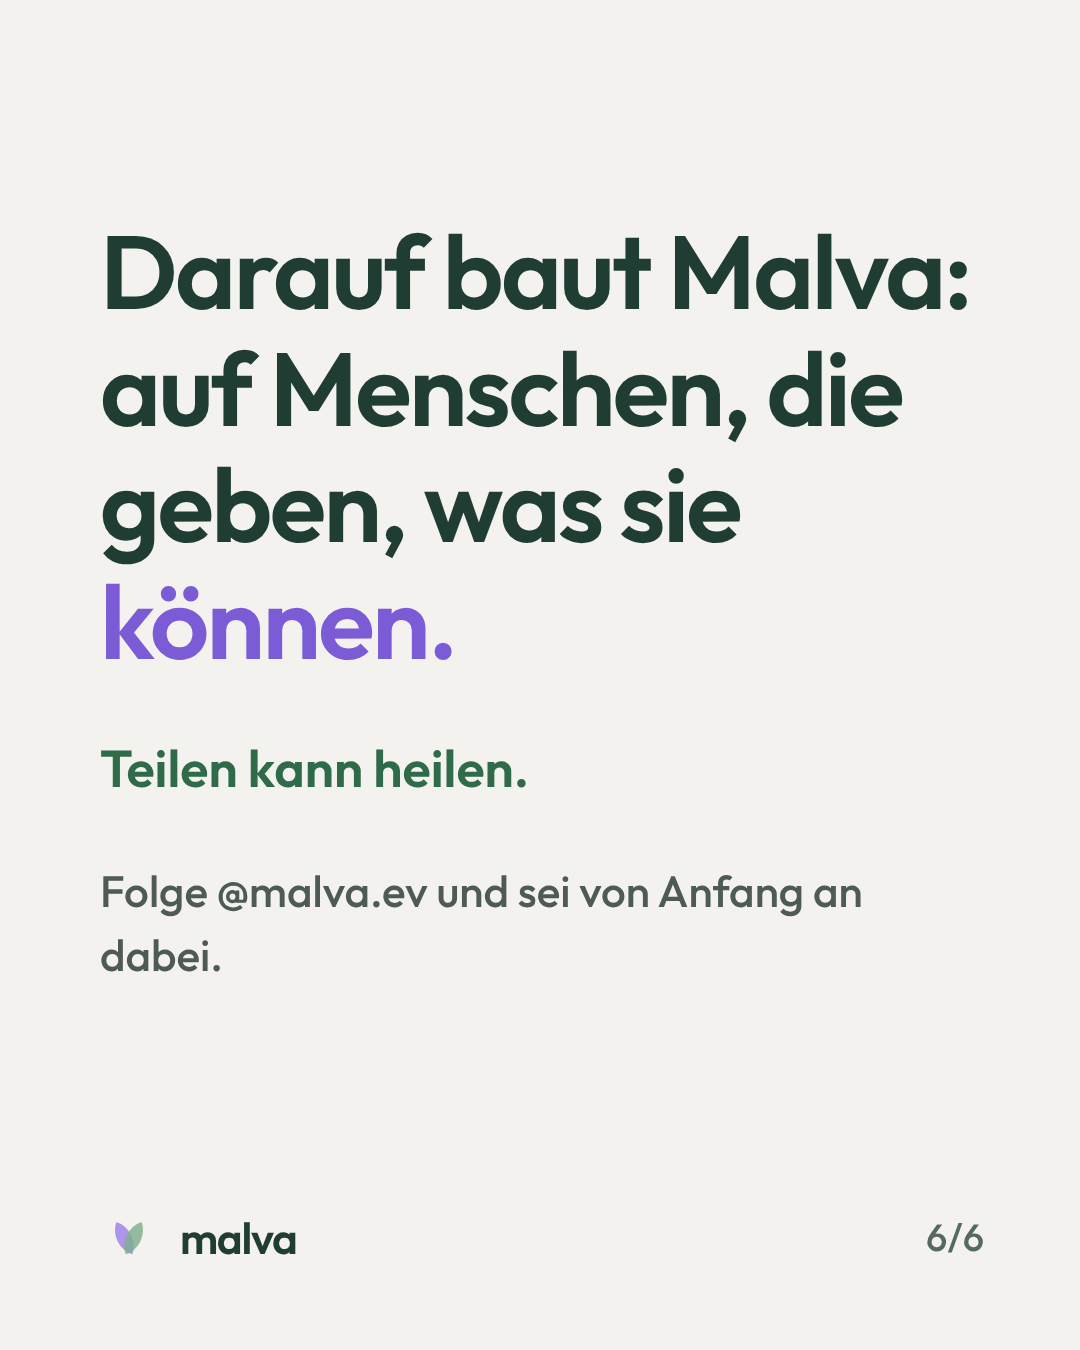
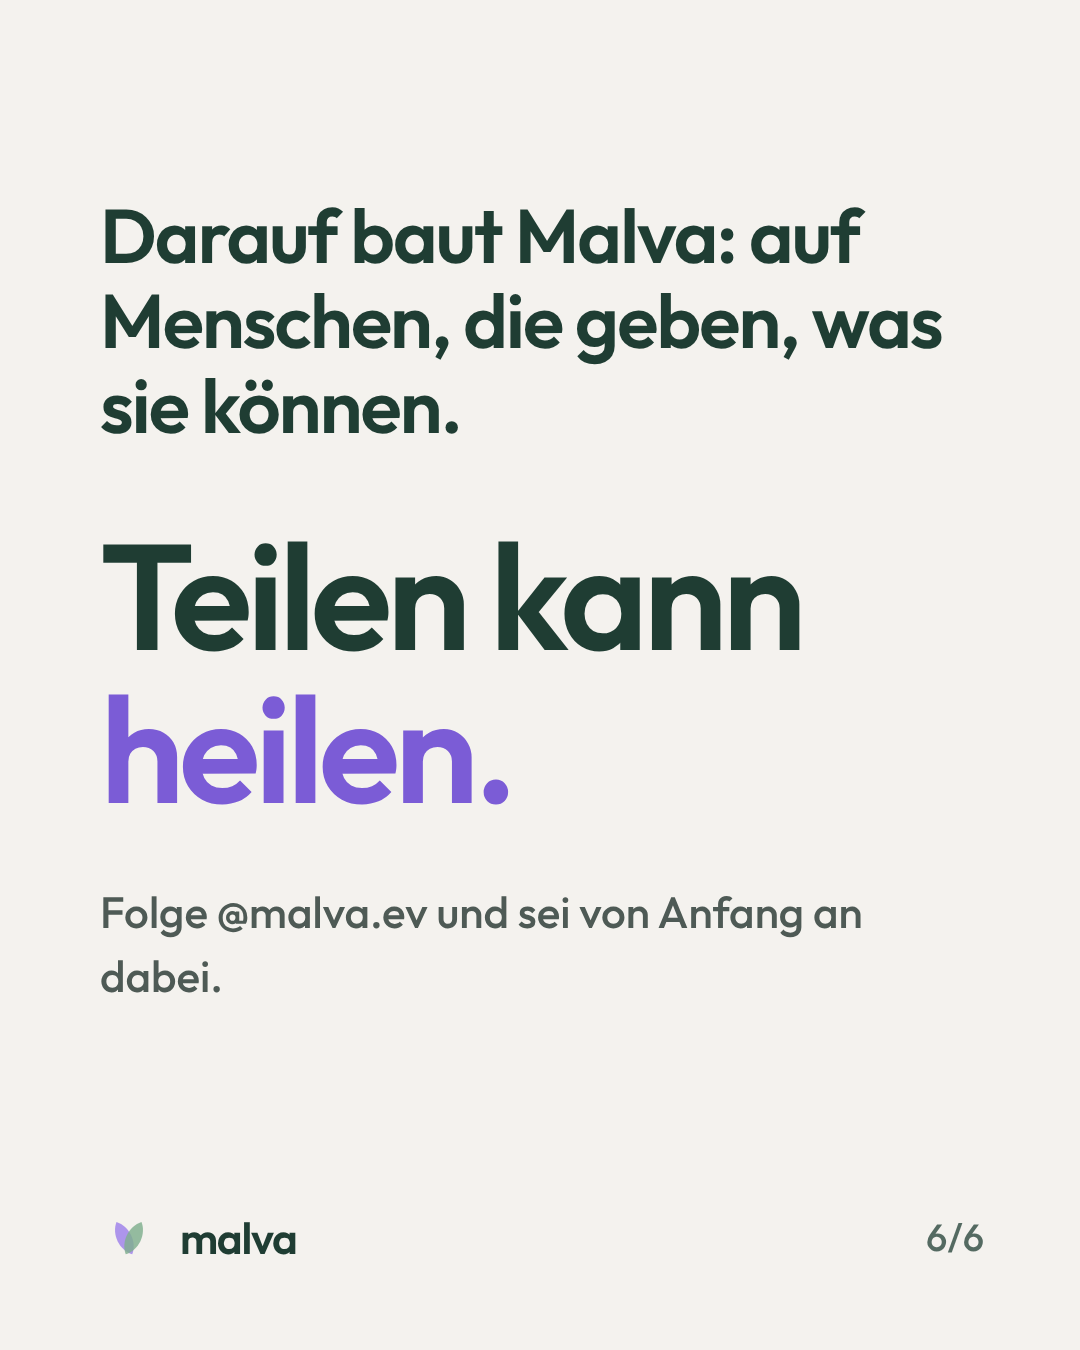
Instagram: „Teilen kann heilen“ auf letzter Slide groß
Claude-Session: https://claude.ai/code/session_015uEer6M6e5oi78ZvJtGjnt

Changed region(s): [[0.0917, 0.1556, 0.9167, 0.6222], [0.0917, 0.6533, 0.7944, 0.7467]]

diff --git a/malva-website/instagram/teilen-kann-heilen/slides.html b/malva-website/instagram/teilen-kann-heilen/slides.html
@@ -78,8 +78,8 @@ h2{font-weight:600;font-size:82px;line-height:1.12;letter-spacing:-.025em}
 </section>
 
 <section class="slide light" id="s6">
-  <h2 style="font-size:104px">Darauf baut Malva: auf Menschen, die geben, was sie <span class="hl">können.</span></h2>
-  <p class="sage">Teilen kann heilen.</p>
+  <h2 style="font-size:76px">Darauf baut Malva: auf Menschen, die geben, was sie können.</h2>
+  <h1 style="font-size:150px;margin-top:70px">Teilen kann<br><span class="hl">heilen.</span></h1>
   <p class="body">Folge @malva.ev und sei von Anfang an dabei.</p>
   <div class="foot"><div class="brand" data-mark="h"><span>malva</span></div><span class="num">6/6</span></div>
 </section>
